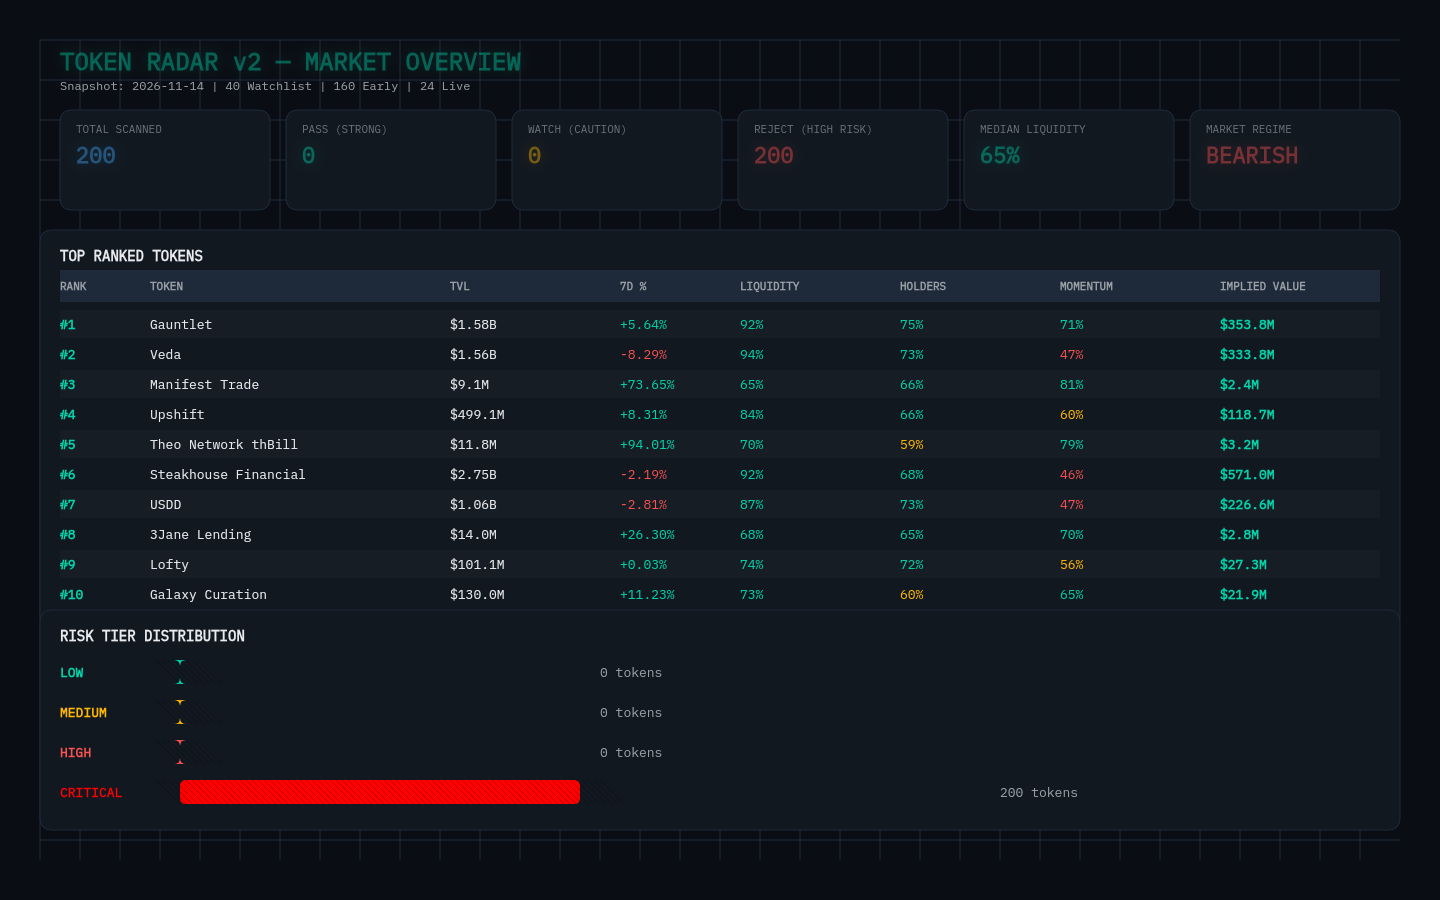
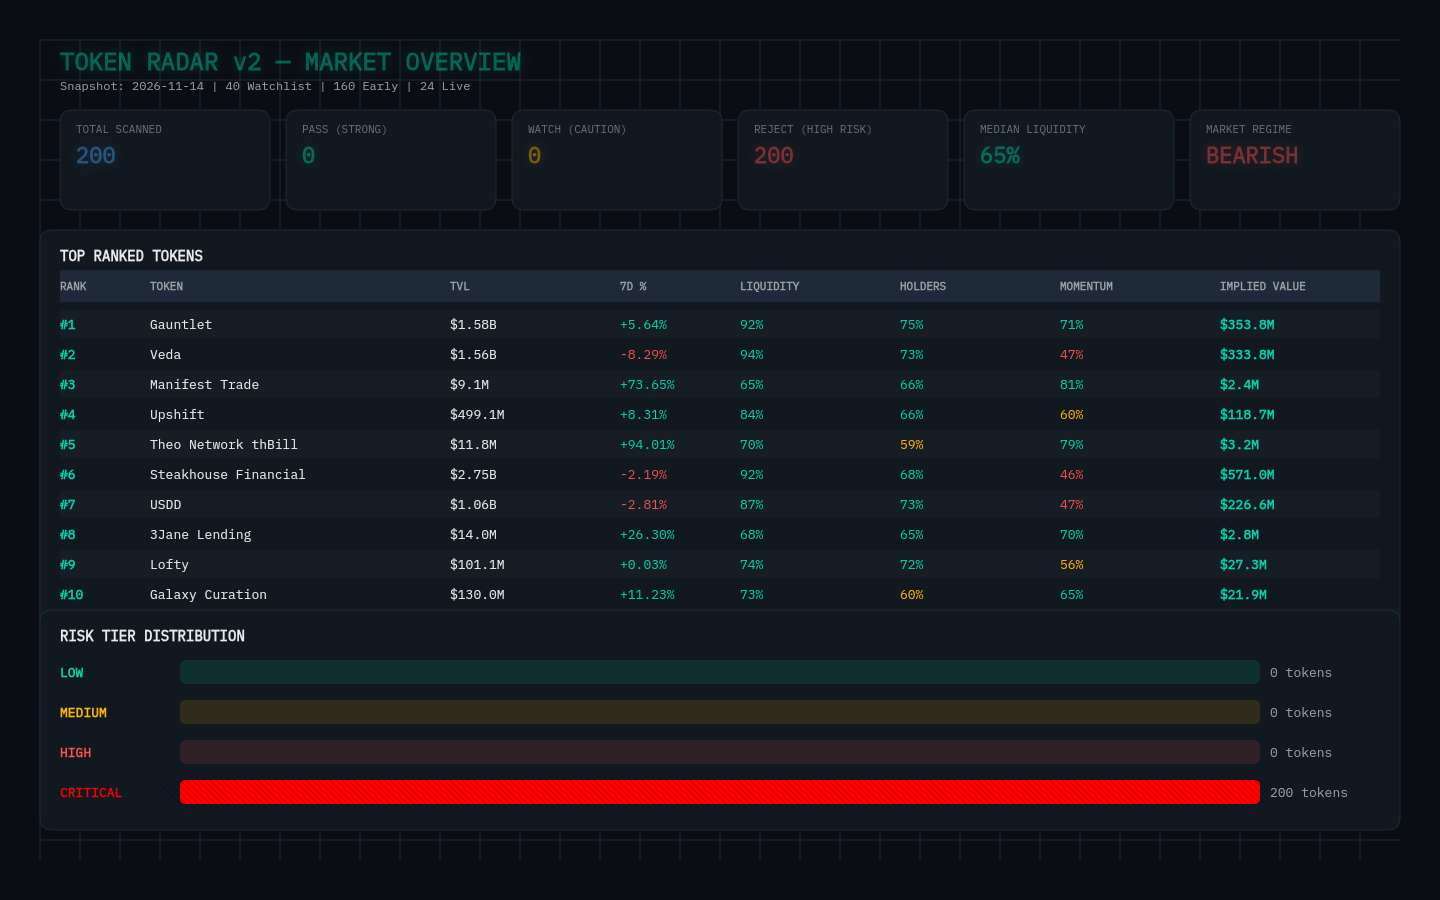
Fix Market Overview visual artifacts: zero-count bar removal, full-width proportional scaling, consistent vertical spacing
- RISK TIER DISTRIBUTION: track spans full width (180 to WIDTH-180), bars scale by totalTokens (200)
- Zero-count tiers (CRITICAL=0): no filled bar or hatch drawn (removes sliver artifact)
- Track background always rendered at 20% opacity for visual consistency
- Vertical gap confirmed at 380px (clean margin between table and panel)
- Determinism verified: SHA-256 match (34535d550d40f53d4d003d2d8a3558aaec945e50415a34ddf1241caa6c8b6b85)

Changed region(s): [[0.125, 0.7778, 0.875, 0.9022], [0.9062, 0.8711, 0.9375, 0.9022]]

diff --git a/src/generate-screenshots.ts b/src/generate-screenshots.ts
@@ -358,20 +358,32 @@ async function generateMarketOverview() {
     { label: 'CRITICAL', color: '#ff0000', count: radar.rows.filter(r => tierOf(r) === 'CRITICAL').length },
   ];
 
-  const maxCount = Math.max(...tiers.map(t => t.count));
+  const totalTokens = radar.rows.length;
+  const trackStartX = 180;
+  const trackEndX = WIDTH - 180;
+  const trackWidth = trackEndX - trackStartX;
+
   tiers.forEach((tier, i) => {
     const ty = y + 50 + i * 40;
-    const barWidth = maxCount > 0 ? ((tier.count / maxCount) * 400) : 0;
+    const barWidth = tier.count > 0 ? Math.round((tier.count / totalTokens) * trackWidth) : 0;
+
     drawText(ctx, tier.label, 60, ty + 12, { font: 'bold 13px "IBM Plex Mono"', color: tier.color, baseline: 'middle' });
-    ctx.fillStyle = tier.color + '40';
-    drawRoundedRect(ctx, 180, ty, barWidth, 24, 6);
+
+    // Draw track background (full width)
+    ctx.fillStyle = tier.color + '20';
+    drawRoundedRect(ctx, trackStartX, ty, trackWidth, 24, 6);
     ctx.fill();
-    ctx.fillStyle = tier.color;
-    drawRoundedRect(ctx, 180, ty, Math.max(barWidth, 0), 24, 6);
-    ctx.fill();
-    // Add hatch for color-blind accessibility
-    drawHatch(ctx, 180, ty, Math.max(barWidth, 0), 24, 'rgba(0,0,0,0.25)', 6);
-    drawText(ctx, String(tier.count) + ' tokens', 600 + barWidth, ty + 12, { font: '13px "IBM Plex Mono"', color: COLORS.textDim, baseline: 'middle' });
+
+    // Draw filled bar only if count > 0 (avoids zero-count sliver artifact)
+    if (tier.count > 0) {
+      ctx.fillStyle = tier.color;
+      drawRoundedRect(ctx, trackStartX, ty, barWidth, 24, 6);
+      ctx.fill();
+      // Add hatch for color-blind accessibility
+      drawHatch(ctx, trackStartX, ty, barWidth, 24, 'rgba(0,0,0,0.25)', 6);
+    }
+
+    drawText(ctx, String(tier.count) + ' tokens', trackEndX + 10, ty + 12, { font: '13px "IBM Plex Mono"', color: COLORS.textDim, baseline: 'middle' });
   });
 
   const outputPath = join(screenshotsDir, '01-market-overview.png');
